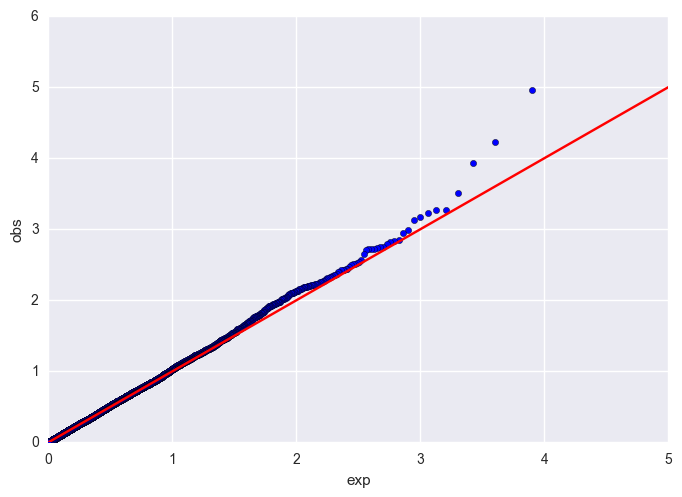
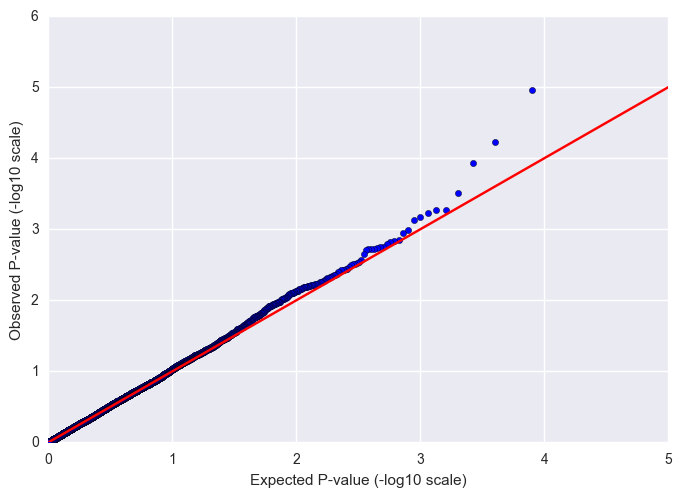
Fixed labeling on QQ plot axes

Changed region(s): [[0.3695, 0.9356, 0.6774, 0.996], [0.0, 0.2414, 0.0308, 0.6942]]

diff --git a/docs/tutorial/Tutorial.md b/docs/tutorial/Tutorial.md
@@ -58,6 +58,8 @@ Before we start using Hail, please import the following python libraries for use
     >>> import seaborn
     >>> from math import log, isnan
 
+Note that the import of seaborn is not strictly necessary, as it's main purpose is making the graphs created throughout the tutorial look nicer. 
+
 ## Import data
 
 For cleanliness, let's first assign the names of data files to Python variables:
@@ -524,8 +526,8 @@ To examine this, we can create a Q-Q plot. We are going to be doing this a coupl
     >>>     obs = [-1 * log(p, 10) for p in spvals]
     >>>     plt.scatter(exp, obs)
     >>>     plt.plot(np.arange(0, max(xMax, yMax)), c="red")
-    >>>     plt.xlabel("exp")
-    >>>     plt.ylabel("obs")
+    >>>     plt.xlabel("Expected P-value (-log10 scale)")
+    >>>     plt.ylabel("Observed P-value (-log10 scale)")
     >>>     plt.xlim(0, xMax)
     >>>     plt.ylim(0, yMax)
     >>>     plt.show() 
